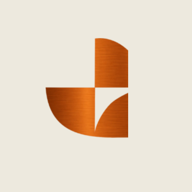
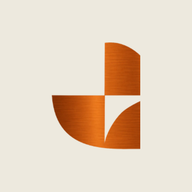
Icone: refaz centralizado a partir do simbolo limpo (margem folgada, sem corte)
A versao anterior vinha do maskable, com a bandeira um pouco alta (parecia
cortada no topo). Agora o icone e composto do simbolo limpo (simbolo-perspecta.png)
centralizado num quadrado creme com ~22% de margem em todos os lados — equilibrado
e sem corte. Regera apple-touch/favicons/icon-192/512/maskable e sobe o cache
(?v=4, service worker v7) para os aparelhos buscarem o novo.

Changed region(s): [[0.2188, 0.1875, 0.75, 0.7812]]

diff --git a/client/index.html b/client/index.html
@@ -22,9 +22,9 @@
       Endereço novo é arquivo novo. A cada mudança de ícone, sobe este número
       (e o do manifest, e o do service worker).
     -->
-    <link rel="icon" type="image/png" sizes="32x32" href="/favicon-32.png?v=3" />
-    <link rel="icon" type="image/png" sizes="64x64" href="/favicon-64.png?v=3" />
-    <link rel="apple-touch-icon" href="/apple-touch-icon.png?v=3" />
+    <link rel="icon" type="image/png" sizes="32x32" href="/favicon-32.png?v=4" />
+    <link rel="icon" type="image/png" sizes="64x64" href="/favicon-64.png?v=4" />
+    <link rel="apple-touch-icon" href="/apple-touch-icon.png?v=4" />
     <meta name="apple-mobile-web-app-capable" content="yes" />
     <meta name="apple-mobile-web-app-title" content="Perspecta" />
     <link rel="preconnect" href="https://fonts.googleapis.com" />

diff --git a/client/public/sw.js b/client/public/sw.js
@@ -10,7 +10,7 @@
 // virar a versão, o celular e o computador de quem já instalou o app
 // continuariam mostrando o ícone velho para sempre. Ao ativar, o cache antigo
 // é apagado inteiro.
-const CACHE = "perspecta-v6";
+const CACHE = "perspecta-v7";
 // Não pré-cacheamos o index.html: ele muda a cada publicação e precisa vir
 // sempre da rede, senão o app abre uma versão velha.
 const SHELL = ["/manifest.webmanifest"];
